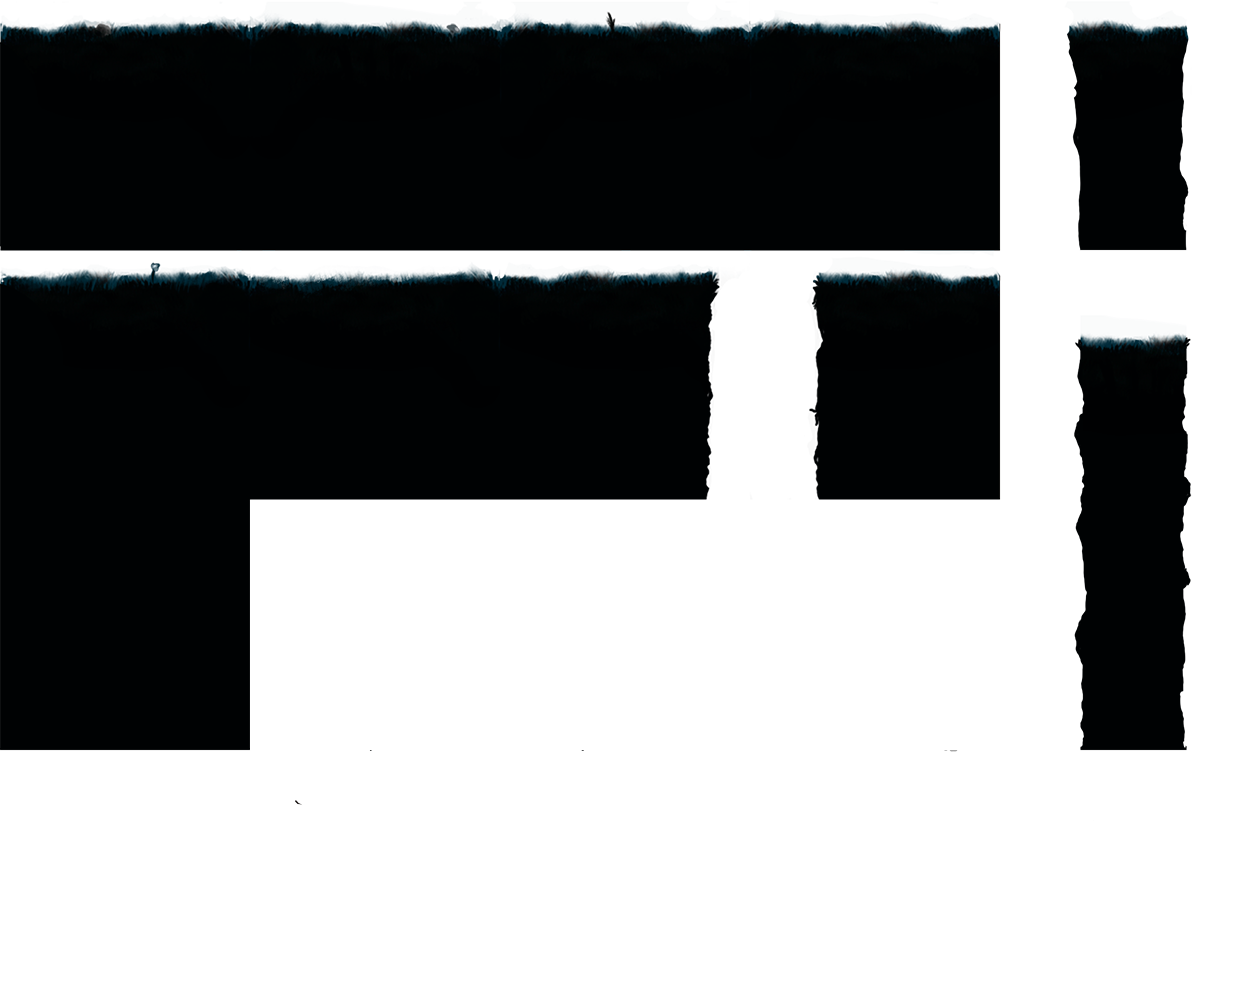
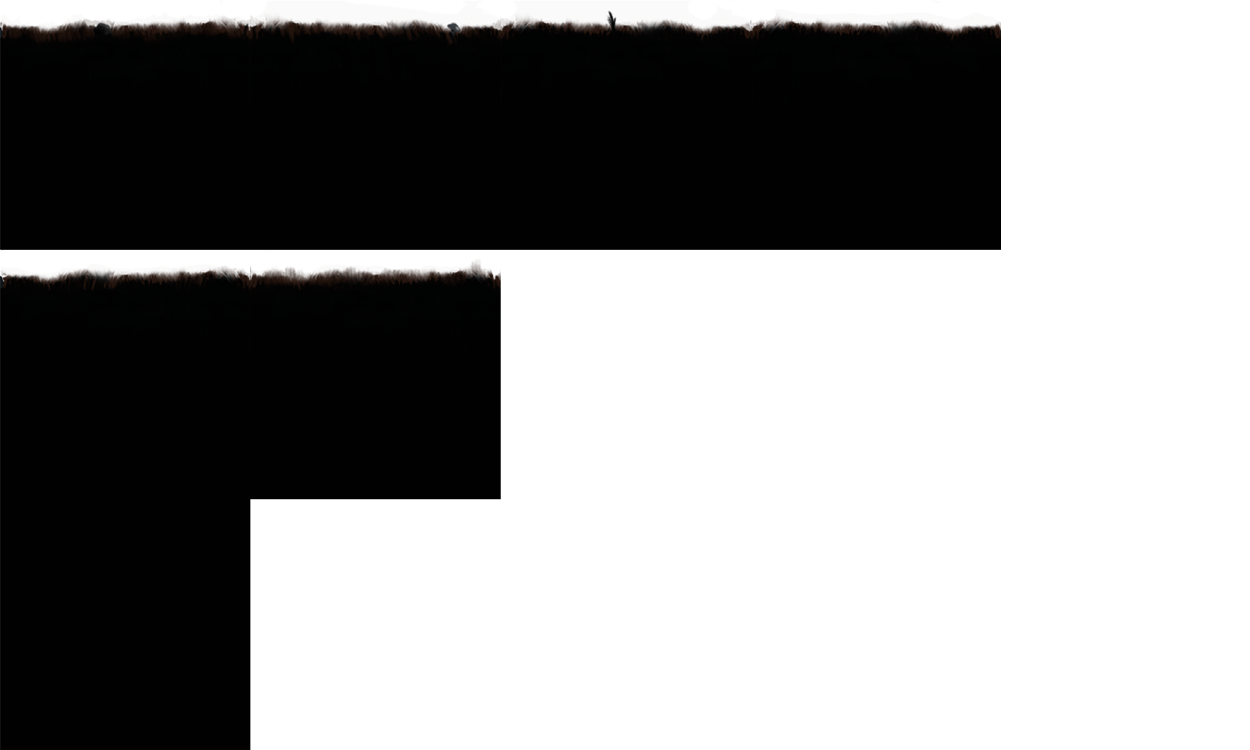
update mapa fase smoke

diff --git a/recursos/map/Smoke/tiles.tsx b/recursos/map/Smoke/tiles.tsx
@@ -1,0 +1,4 @@
+<?xml version="1.0" encoding="UTF-8"?>
+<tileset version="1.10" tiledversion="1.11.2" name="tiles" tilewidth="250" tileheight="250" tilecount="15" columns="5">
+ <image source="tiles.png" width="1250" height="750"/>
+</tileset>
